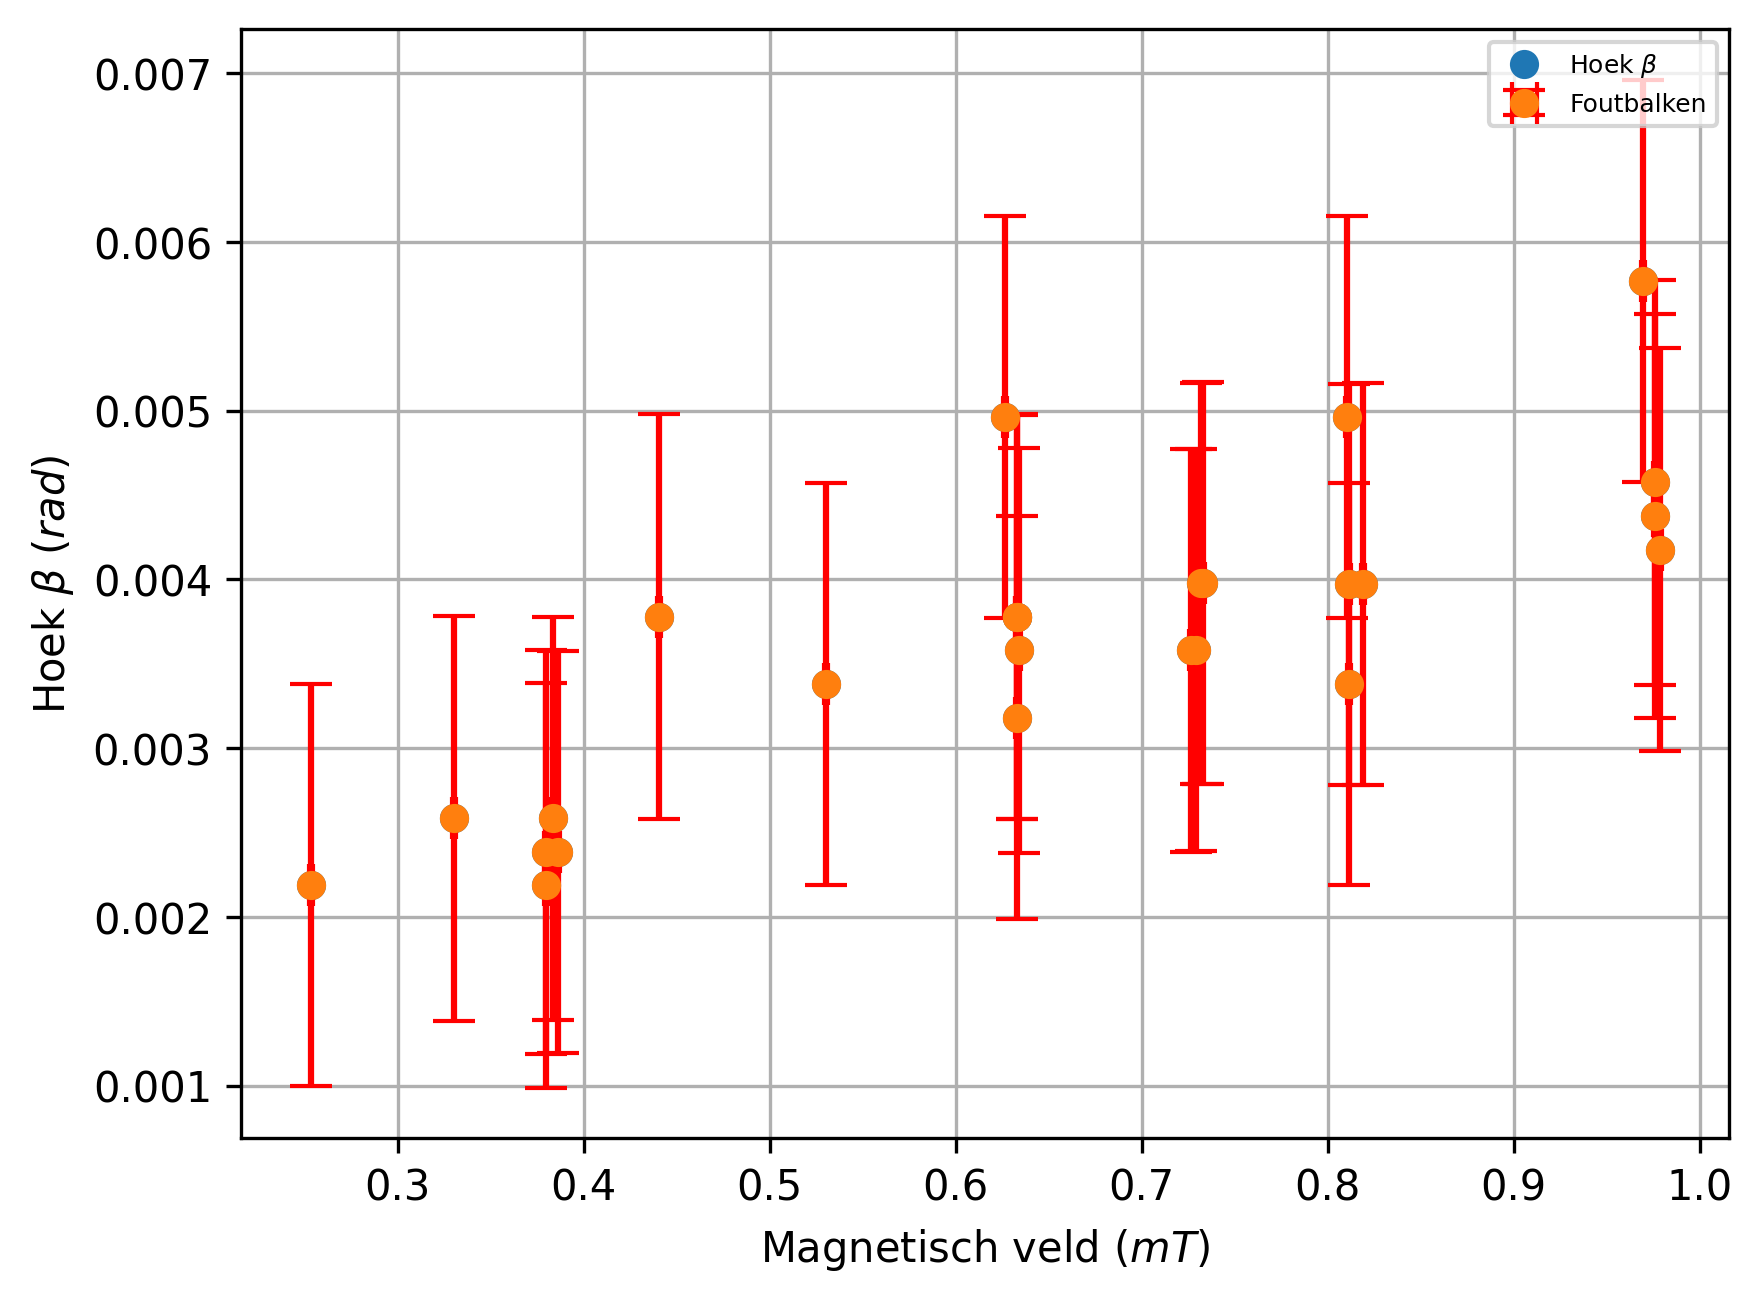
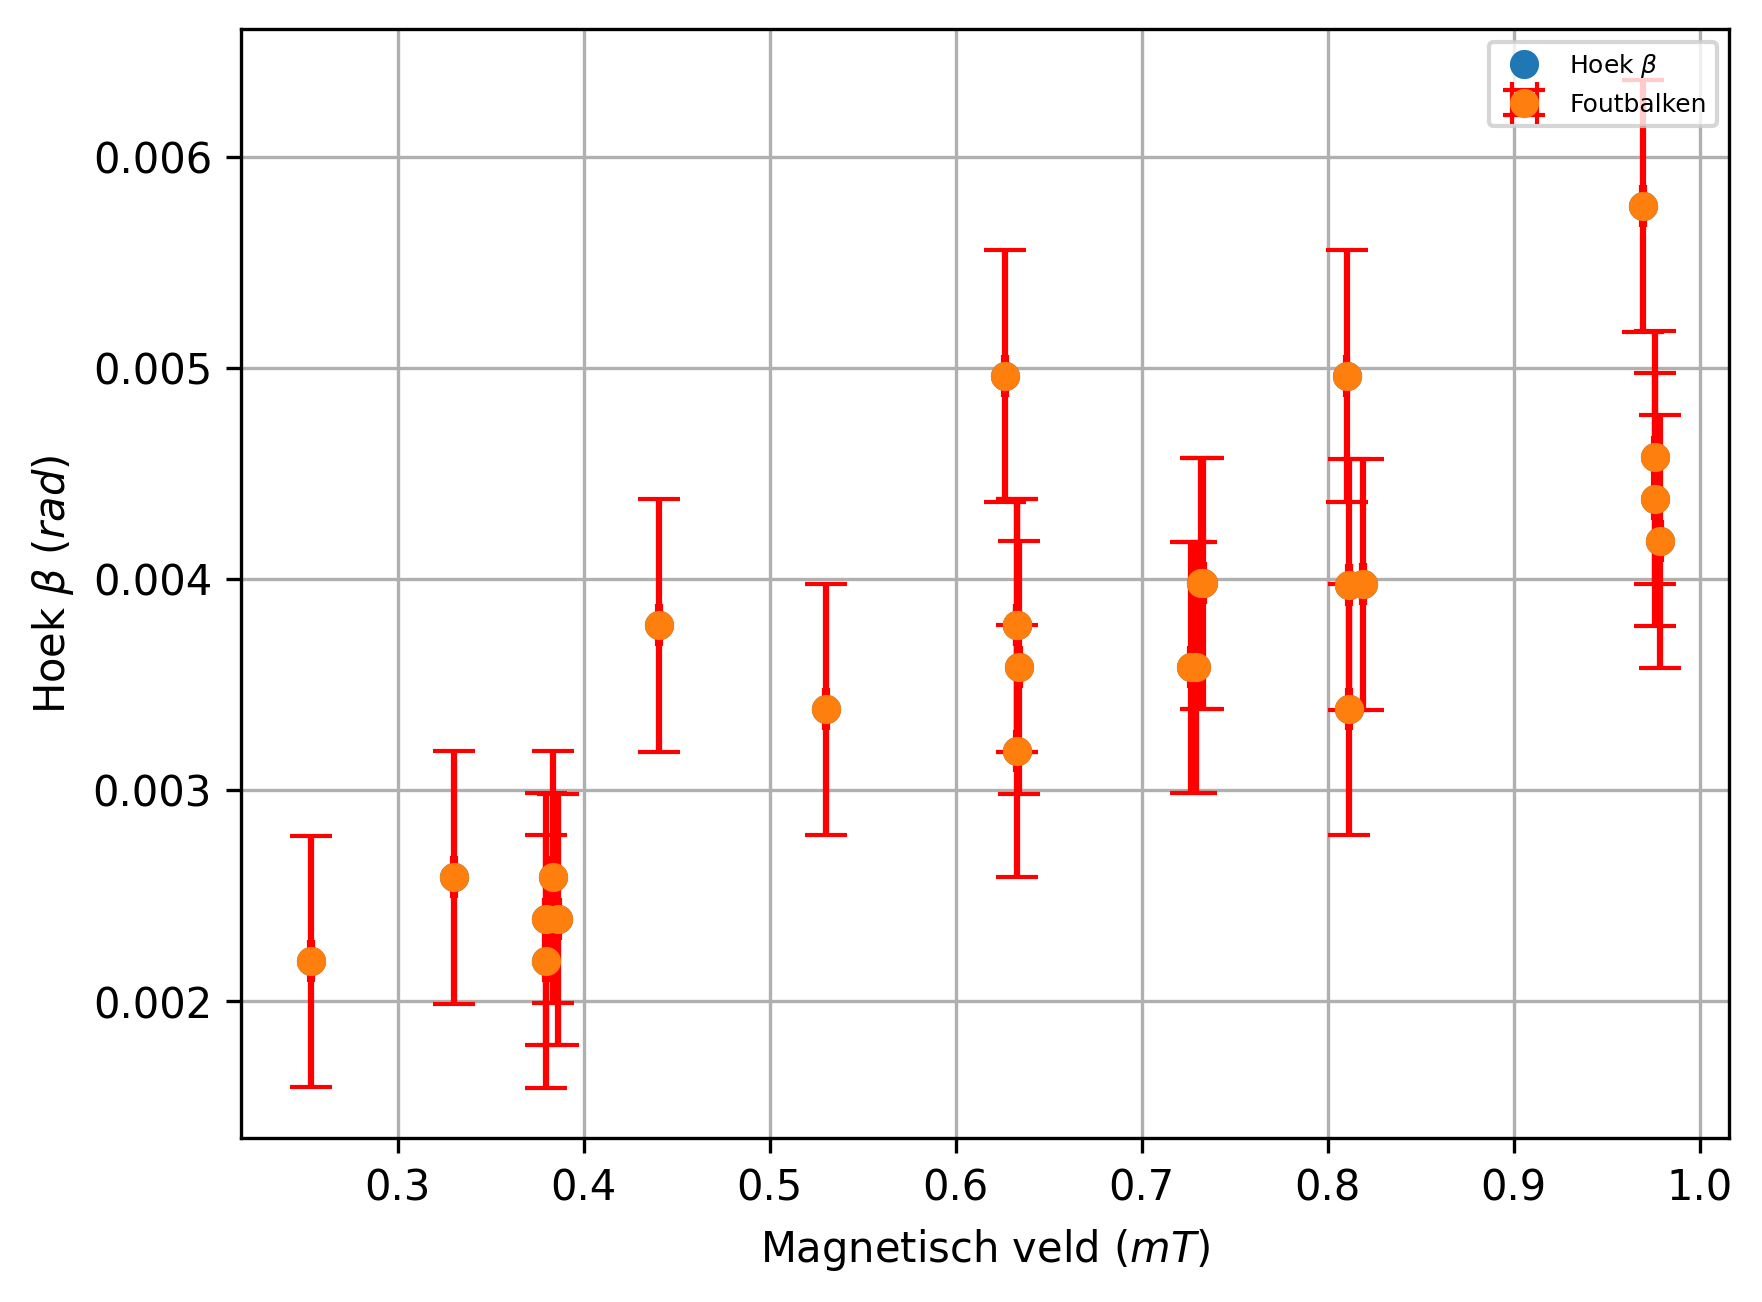
Fout uit de spreadsheet gehaald, nieuwe fit gemaakt zonder intercept

diff --git a/Source-code/Biophysics-code/Resultaten-verwerking.py b/Source-code/Biophysics-code/Resultaten-verwerking.py
@@ -101,39 +101,24 @@ plt.savefig(base_dir.parent.parent / "Data" / "Figuren" / "hoek_beta_vs_magnetis
 plt.close()
 
 # =======================================================
-# Lineaire regressie van hoek beta in functie van het magnetisch veld
+# Lineaire regressie met gewichtsfactoren zonder intercept
 # =======================================================
 
-gewichten_beta = 3 / af_hoek_beta
+f = lambda x, a: a * x
 
-def kostfunctie(coefficienten, gewichten = gewichten_beta, beta = hoek_beta, B = mag_veld_col):
-    a0, a1 = coefficienten
-    d_kwadraat = (beta - a0 - a1 * B)**2
-    return gewichten @ d_kwadraat
+# Gebruik curve_fit omdat deze een error estimation geeft
+fit = sp.optimize.curve_fit(f, mag_veld_col * lengte_kwarts / 10**6, hoek_beta, sigma = af_hoek_beta/3)
+print(fit)
 
-fit = sp.optimize.minimize
+B_over_as = mag_veld_col * lengte_kwarts / 10**6
+AF_B_over_as = B_over_as * (af_mag_veld_col / mag_veld_col + af_lengte_kwarts / lengte_kwarts)
 
-Delta = np.sum(gewichten_beta) * (gewichten_beta @ (mag_veld_col)**2) - (mag_veld_col @ gewichten_beta)**2
+xpunten = (np.min(B_over_as), np.max(B_over_as))
+ypunten = fit[0] * xpunten
 
-a0 = ((gewichten_beta @ (mag_veld_col)**2) * (gewichten_beta @ hoek_beta) - (gewichten_beta @ mag_veld_col) * (np.sum(gewichten_beta * hoek_beta * mag_veld_col))) / Delta
-a1 = (np.sum(gewichten_beta) * np.sum(gewichten_beta * hoek_beta * mag_veld_col) - (gewichten_beta @ mag_veld_col) * (gewichten_beta @ hoek_beta)) / Delta
-
-sigma_y = ((gewichten_beta @ (hoek_beta - a0 - a1 * mag_veld_col)**2) / 23)**(1/2)
-sf_a0 = sigma_y * ((gewichten_beta @ (mag_veld_col)**2) / Delta)**(1/2)
-sf_a1 = sigma_y * ((np.sum(gewichten_beta)) / Delta)**(1/2)
-
-print(a0)
-print(a1)
-print(sf_a0)
-print(sf_a1)
-
-B_punten = np.linspace(np.min(mag_veld_col), np.max(mag_veld_col), 300)
-theta_punten = a0 + a1 * B_punten
-
-plt.plot(mag_veld_col, hoek_beta, 'o', label=r'Hoek $\beta$')
-plt.errorbar(mag_veld_col, hoek_beta, xerr=af_mag_veld_col, yerr=af_hoek_beta, fmt='o', ecolor='red', capsize=5, label=r'Hoek $\beta$')
-plt.plot(B_punten, theta_punten, label="fit")
-plt.xlabel(r'Magnetisch veld $(mT)$')
+plt.errorbar(mag_veld_col * lengte_kwarts / 10**6, hoek_beta, xerr=AF_B_over_as, yerr=af_hoek_beta, fmt='o', ecolor='red', capsize=5, label=r'Hoek $\beta$')
+plt.plot(xpunten, ypunten, label=rf"Beste fit: $\beta = ({fit[0][0]:.1f}\pm {np.ceil(10 * fit[1][0, 0], ) / 10:.1f})\frac{{\text{{rad}}}}{{\text{{Tm}}}}Bl$")
+plt.xlabel(r'Magnetisch veld langs de as $(Tm)$')
 plt.ylabel(r'Hoek $\beta$ $(rad)$')
 plt.grid()
 plt.legend(fontsize=6, loc='upper right')

diff --git a/Data/Verwerking-kalibratie.py b/Data/Verwerking-kalibratie.py
@@ -28,7 +28,7 @@ B_langs_as = B @ eenheidsvector
 
 B_data = B_langs_as * 10**3 # B_data in militesla
 
-plt.plot(d, B_data)
+plt.plot(d - 13.69, B_data, 'o')
 plt.xlabel("d (cm)")
 plt.ylabel("B langs as (mT)")
 plt.grid()
